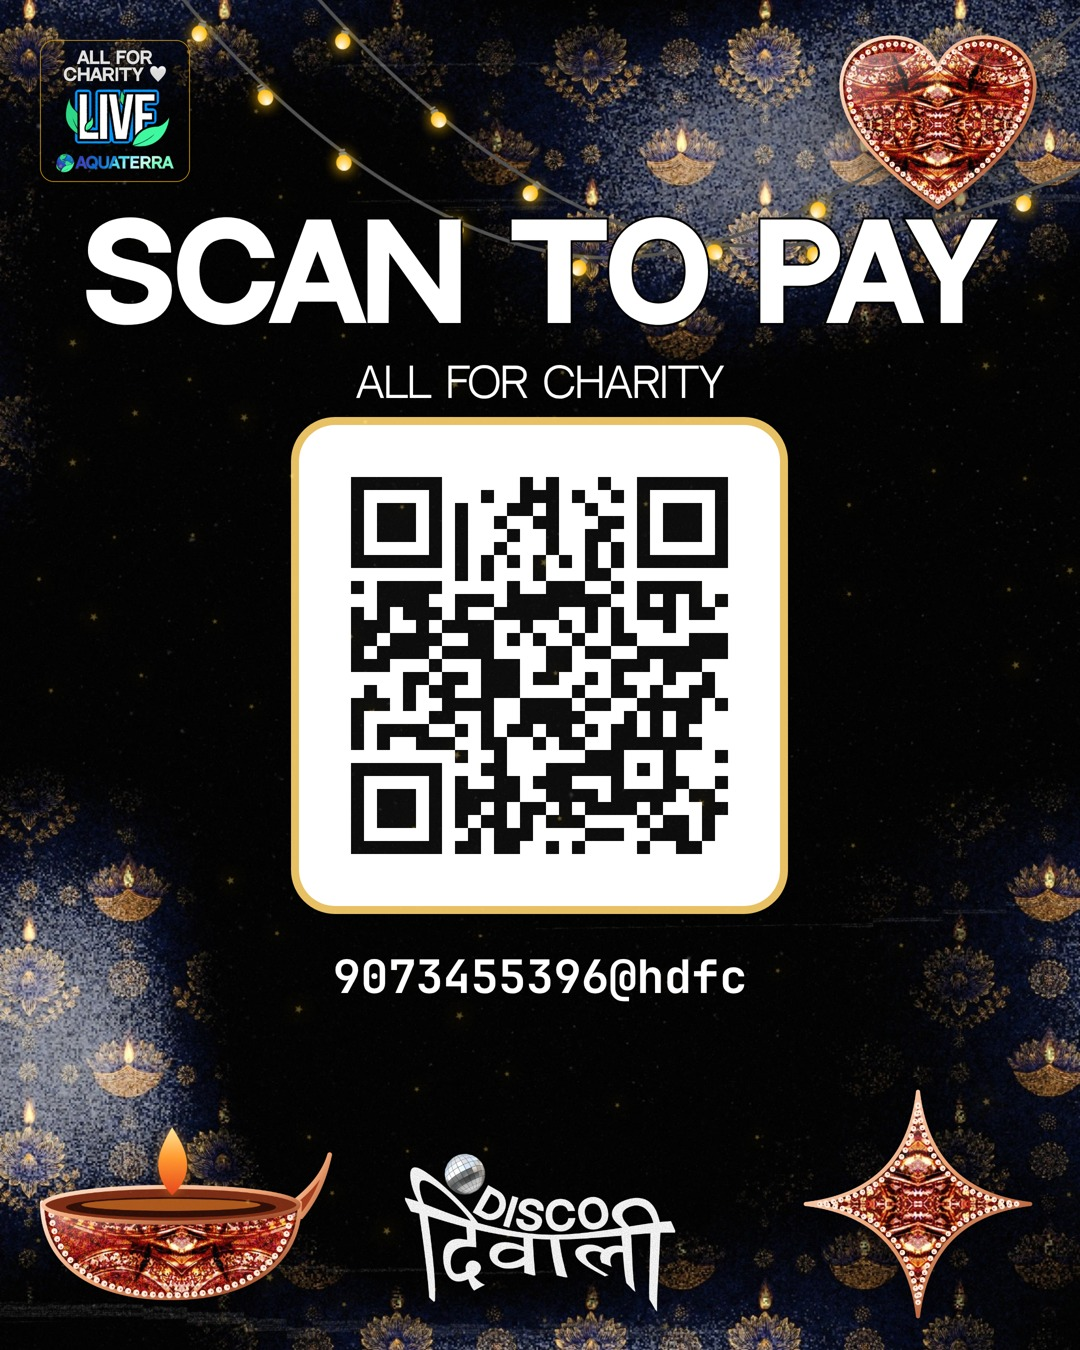
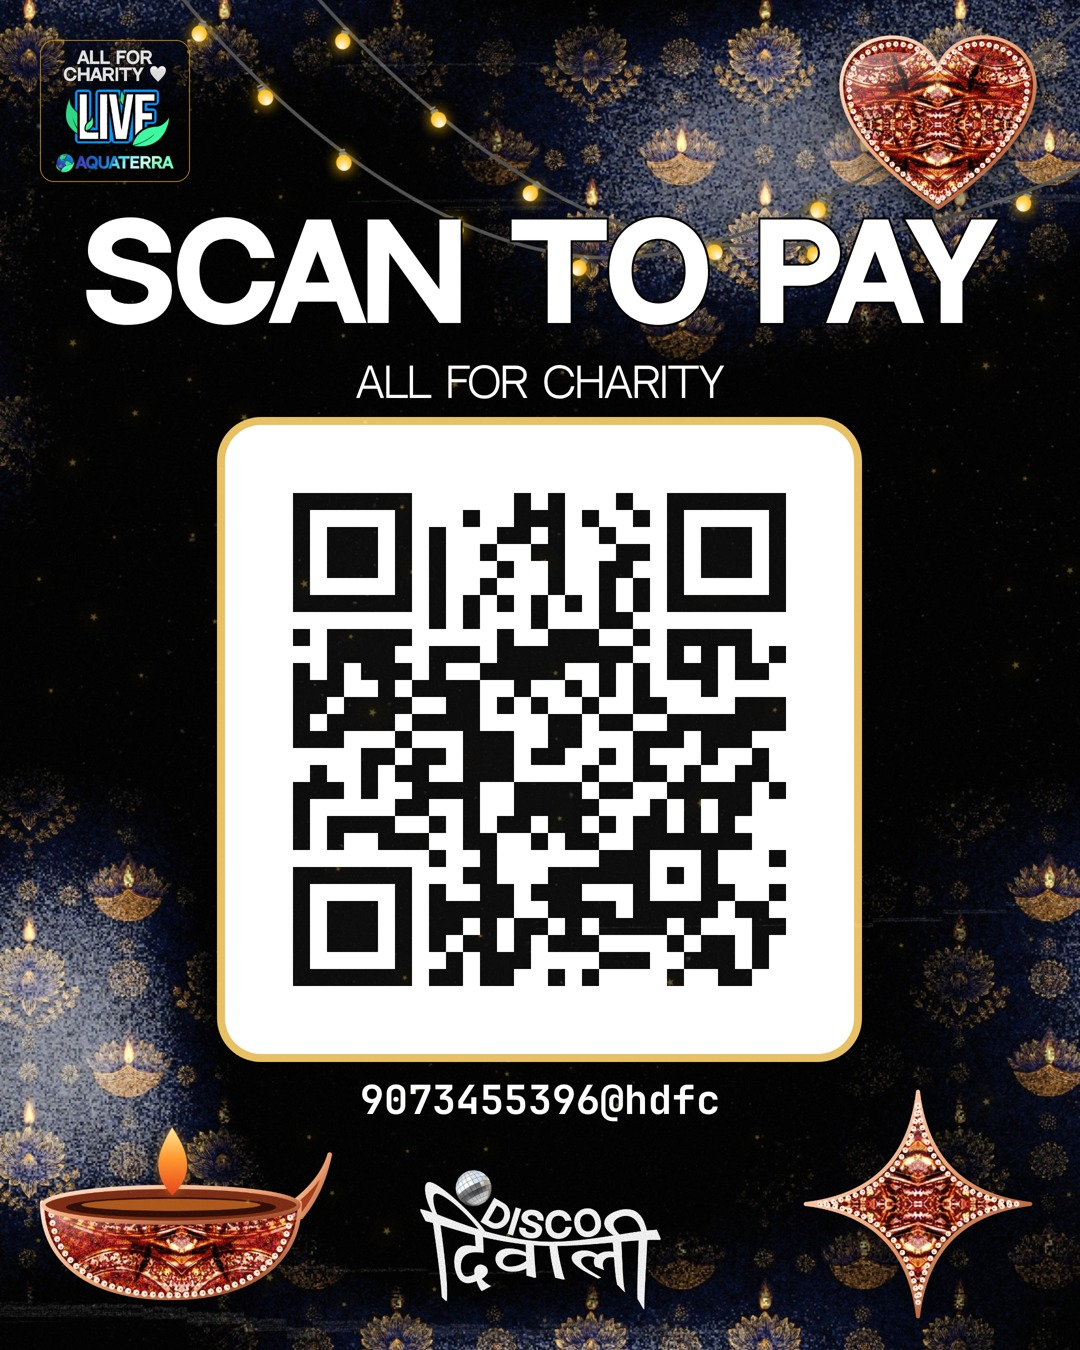
DD WhatsApp payment QR: larger code
Claude-Session: https://claude.ai/code/session_014RDbvKtvXWgKf3CMi5XkjN

Changed region(s): [[0.1833, 0.3111, 0.825, 0.9644]]

diff --git a/scratchpad/dd_wa_payment_qr.py b/scratchpad/dd_wa_payment_qr.py
@@ -31,7 +31,7 @@ Q = segno.make(PAYLOAD, error="m", micro=False)
 STROKE = "color:#fff;-webkit-text-stroke:4px #000;paint-order:stroke fill;"
 GL = "#E8C063"
 MODULES = Q.symbol_size(border=0)[0]
-MOD = 13                                  # css px per module, whole pixels
+MOD = 17                                  # css px per module, whole pixels
 PLATE = (MODULES + 8) * MOD               # a 4-module quiet zone on every side
 PX, PY = (W - PLATE) // 2, 425
 
@@ -68,7 +68,7 @@ def poster():
     els.append(("qr", PX - 8, PY - 8, PLATE + 16, PLATE + 16))
 
     # UPI ID under the plate, so a buyer can type it if the scan fails
-    line("upi", UPI_ID, PY + PLATE + 48, 46, 700, 48, w=480, upper=False, font="--m")
+    line("upi", UPI_ID, PY + PLATE + 26, 40, 700, 42, w=420, upper=False, font="--m")
 
     # copper stickers (user, 2026-10-21: "add stickers as well"): the transparent PNGs from dd_sticker_export.py, one per free zone, none touching the code or type
     stk = os.path.join(ROOT, "sample_outputs", "disco_diwali_stickers")
@@ -80,7 +80,7 @@ def poster():
         els.append((tag, x, y, w, h))
 
     # footer mark: the lockup with its ball, as on the date and location posters
-    vw = 270; t = vw / 1717; vh = round(991 * t); vx = (W - vw) // 2; vy = H - 40 - vh
+    vw = 240; t = vw / 1717; vh = round(991 * t); vx = (W - vw) // 2; vy = H - 40 - vh
     parts.append(f'<img data-tag="title" src="{dd.uri("title_lockup.png")}" style="position:absolute;left:{round(vx - 265 * t)}px;top:{round(vy - 320 * t)}px;width:{round(2000 * t)}px;z-index:9">')
     els.append(("title", round(vx - 265 * t + 0), round(vy - 320 * t + 0), round(2000 * t), round(1382 * t)))
     return "".join(parts), els, vy
@@ -106,7 +106,7 @@ async def main():
     print(f"footer mark starts at y={top} of {H}")
     out = os.path.join(OUT, "poster.png")
     async with B.session():
-        text_pairs = [("head", "#fff", "#000", 128, True), ("sub", "#fff", "#000", 40, False), ("upi", "#fff", "#000", 46, True)]
+        text_pairs = [("head", "#fff", "#000", 128, True), ("sub", "#fff", "#000", 40, False), ("upi", "#fff", "#000", 40, True)]
         await B.render(B.page(W, H, "#000", inner, grain=False), out, W, H, elements=els, containers=(), bleed_tags=("plate",), crop_tags=("plate",),
                        text_pairs=text_pairs, page_bg="#000", collision_ignore=[])
     verify(out)
